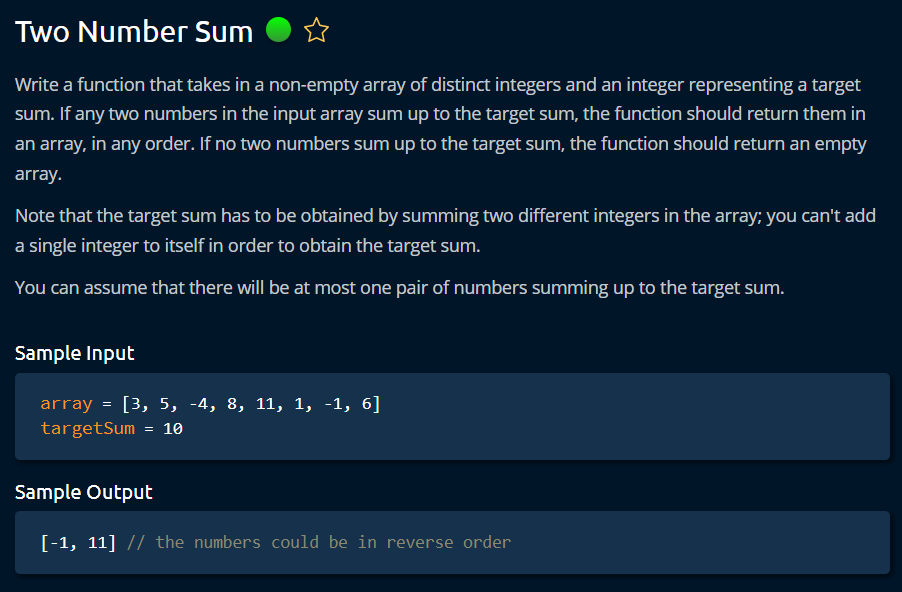
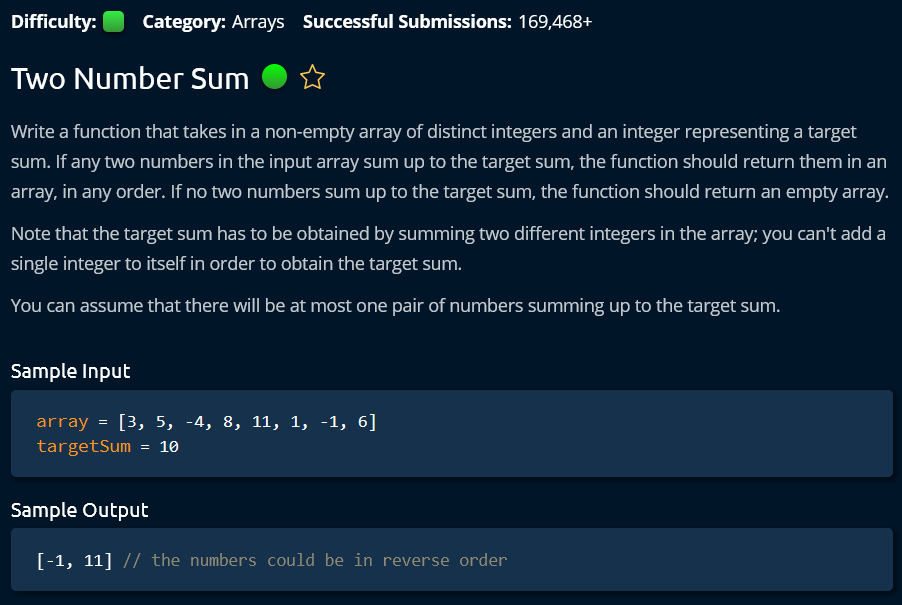
GITBOOK-3: Adding details to 1. Two Number Sum

Changed region(s): [[0.0, 0.0, 0.9933, 0.5169], [0.0, 0.5777, 0.9933, 0.7905], [0.0, 0.8209, 0.9933, 1.0]]

diff --git a/195-coding-interview-questions/easy/1.-two-number-sum.md b/195-coding-interview-questions/easy/1.-two-number-sum.md
@@ -1,20 +1,36 @@
+---
+description: Solutions and discussions for "Two Number Sum" problem
+---
+
 # 1. Two Number Sum
+
+**Tags:** Brute Force, Two pointers - Traversal from both ends, Hashset, Sort
+
+**Categories:** Arrays
 
 ## Problem description
 
-<figure><img src="../../.gitbook/assets/image.png" alt=""><figcaption></figcaption></figure>
+<figure><img src="../../.gitbook/assets/image.png" alt="Problem description for &#x22;Two Number Sum&#x22;"><figcaption><p>Problem description for "Two Number Sum"</p></figcaption></figure>
 
 ## Solutions
 
-### Solution 1
+### Solution 1: Brute Force
 
-<pre class="language-cpp" data-title="BruteForce.cpp" data-overflow="wrap" data-line-numbers data-full-width="true"><code class="lang-cpp">#include &#x3C;vector>
+**Time complexity:** O(N^2), where N is size of `array`
+
+**Space complexity:** O(1)
+
+**Tags:** Brute Force
+
+**Categories:**
+
+<pre class="language-cpp" data-title="BruteForce.cpp" data-overflow="wrap" data-line-numbers data-full-width="false"><code class="lang-cpp">#include &#x3C;vector>
 <strong>
 </strong><strong>using namespace std;
 </strong>
 vector&#x3C;int> twoNumberSum(vector&#x3C;int> array, int targetSum) {
-    // Write your code here.
     auto sz = static_cast&#x3C;int>(array.size());
+    // O(N^2) - For loop on idx1 and idx2
     for (int idx1 = 0; idx1 &#x3C; sz; ++idx1) {
         for (int idx2 = idx1 + 1; idx2 &#x3C; sz; ++idx2) {
             if (array[idx1] + array[idx2] == targetSum) {
@@ -27,9 +43,15 @@ vector&#x3C;int> twoNumberSum(vector&#x3C;int> array, int targetSum) {
  
 </code></pre>
 
-### Solution 2
+### Solution 2: Two pointers
 
+**Time complexity:** O(N\*log(N)), where N is size of `array`
 
+**Space complexity:** O(1)
+
+**Tags:** Sort, Two pointers - Traversal from both ends
+
+**Categories:**
 
 {% code title="Sort.cpp" overflow="wrap" lineNumbers="true" %}
 ```cpp
@@ -39,9 +61,10 @@ vector&#x3C;int> twoNumberSum(vector&#x3C;int> array, int targetSum) {
 using namespace std;
 
 vector<int> twoNumberSum(vector<int> array, int targetSum) { 
-    // Write your code here.
+    // O(N*log(N)) - Sort.
     sort(begin(array), end(array));
     auto sz = static_cast<int>(array.size());
+    // O(N) - Two pointers
     for (int idx1 = 0, idx2 = sz - 1; idx1 < idx2;) {
         if (array[idx1] + array[idx2] == targetSum) {
             return {array[idx1], array[idx2]};
@@ -59,9 +82,15 @@ vector<int> twoNumberSum(vector<int> array, int targetSum) {
 ```
 {% endcode %}
 
-### Solution 3
+### Solution 3: Hashset
 
+**Time complexity:** O(N), where N is size of `array`. _Assumption:_ Insertion and retrieval in hashset is assumed to be O(1)
 
+**Space complexity:** O(N), where N is size of `array`
+
+**Tags:** Hashset
+
+**Categories:**
 
 {% code title="OnePassHashset.cpp" overflow="wrap" lineNumbers="true" %}
 ```cpp
@@ -85,14 +114,6 @@ vector<int> twoNumberSum(vector<int> array, int targetSum) {
 ```
 {% endcode %}
 
+## References
 
-
-{% tabs %}
-{% tab title="First Tab" %}
-
-{% endtab %}
-
-{% tab title="Second Tab" %}
-
-{% endtab %}
-{% endtabs %}
+*

diff --git a/195-coding-interview-questions/easy/2.-validate-subsequence.md b/195-coding-interview-questions/easy/2.-validate-subsequence.md
@@ -2,7 +2,7 @@
 
 ## Problem Description
 
-<figure><img src="../../.gitbook/assets/image (1) (1).png" alt=""><figcaption></figcaption></figure>
+<figure><img src="../../.gitbook/assets/image (1) (1) (1).png" alt=""><figcaption></figcaption></figure>
 
 ## Solutions
 

diff --git a/195-coding-interview-questions/easy/3.-sorted-squared-array.md b/195-coding-interview-questions/easy/3.-sorted-squared-array.md
@@ -2,7 +2,7 @@
 
 ## Problem Description
 
-<figure><img src="../../.gitbook/assets/image (1).png" alt=""><figcaption></figcaption></figure>
+<figure><img src="../../.gitbook/assets/image (1) (1).png" alt=""><figcaption></figcaption></figure>
 
 ## Solutions
 
